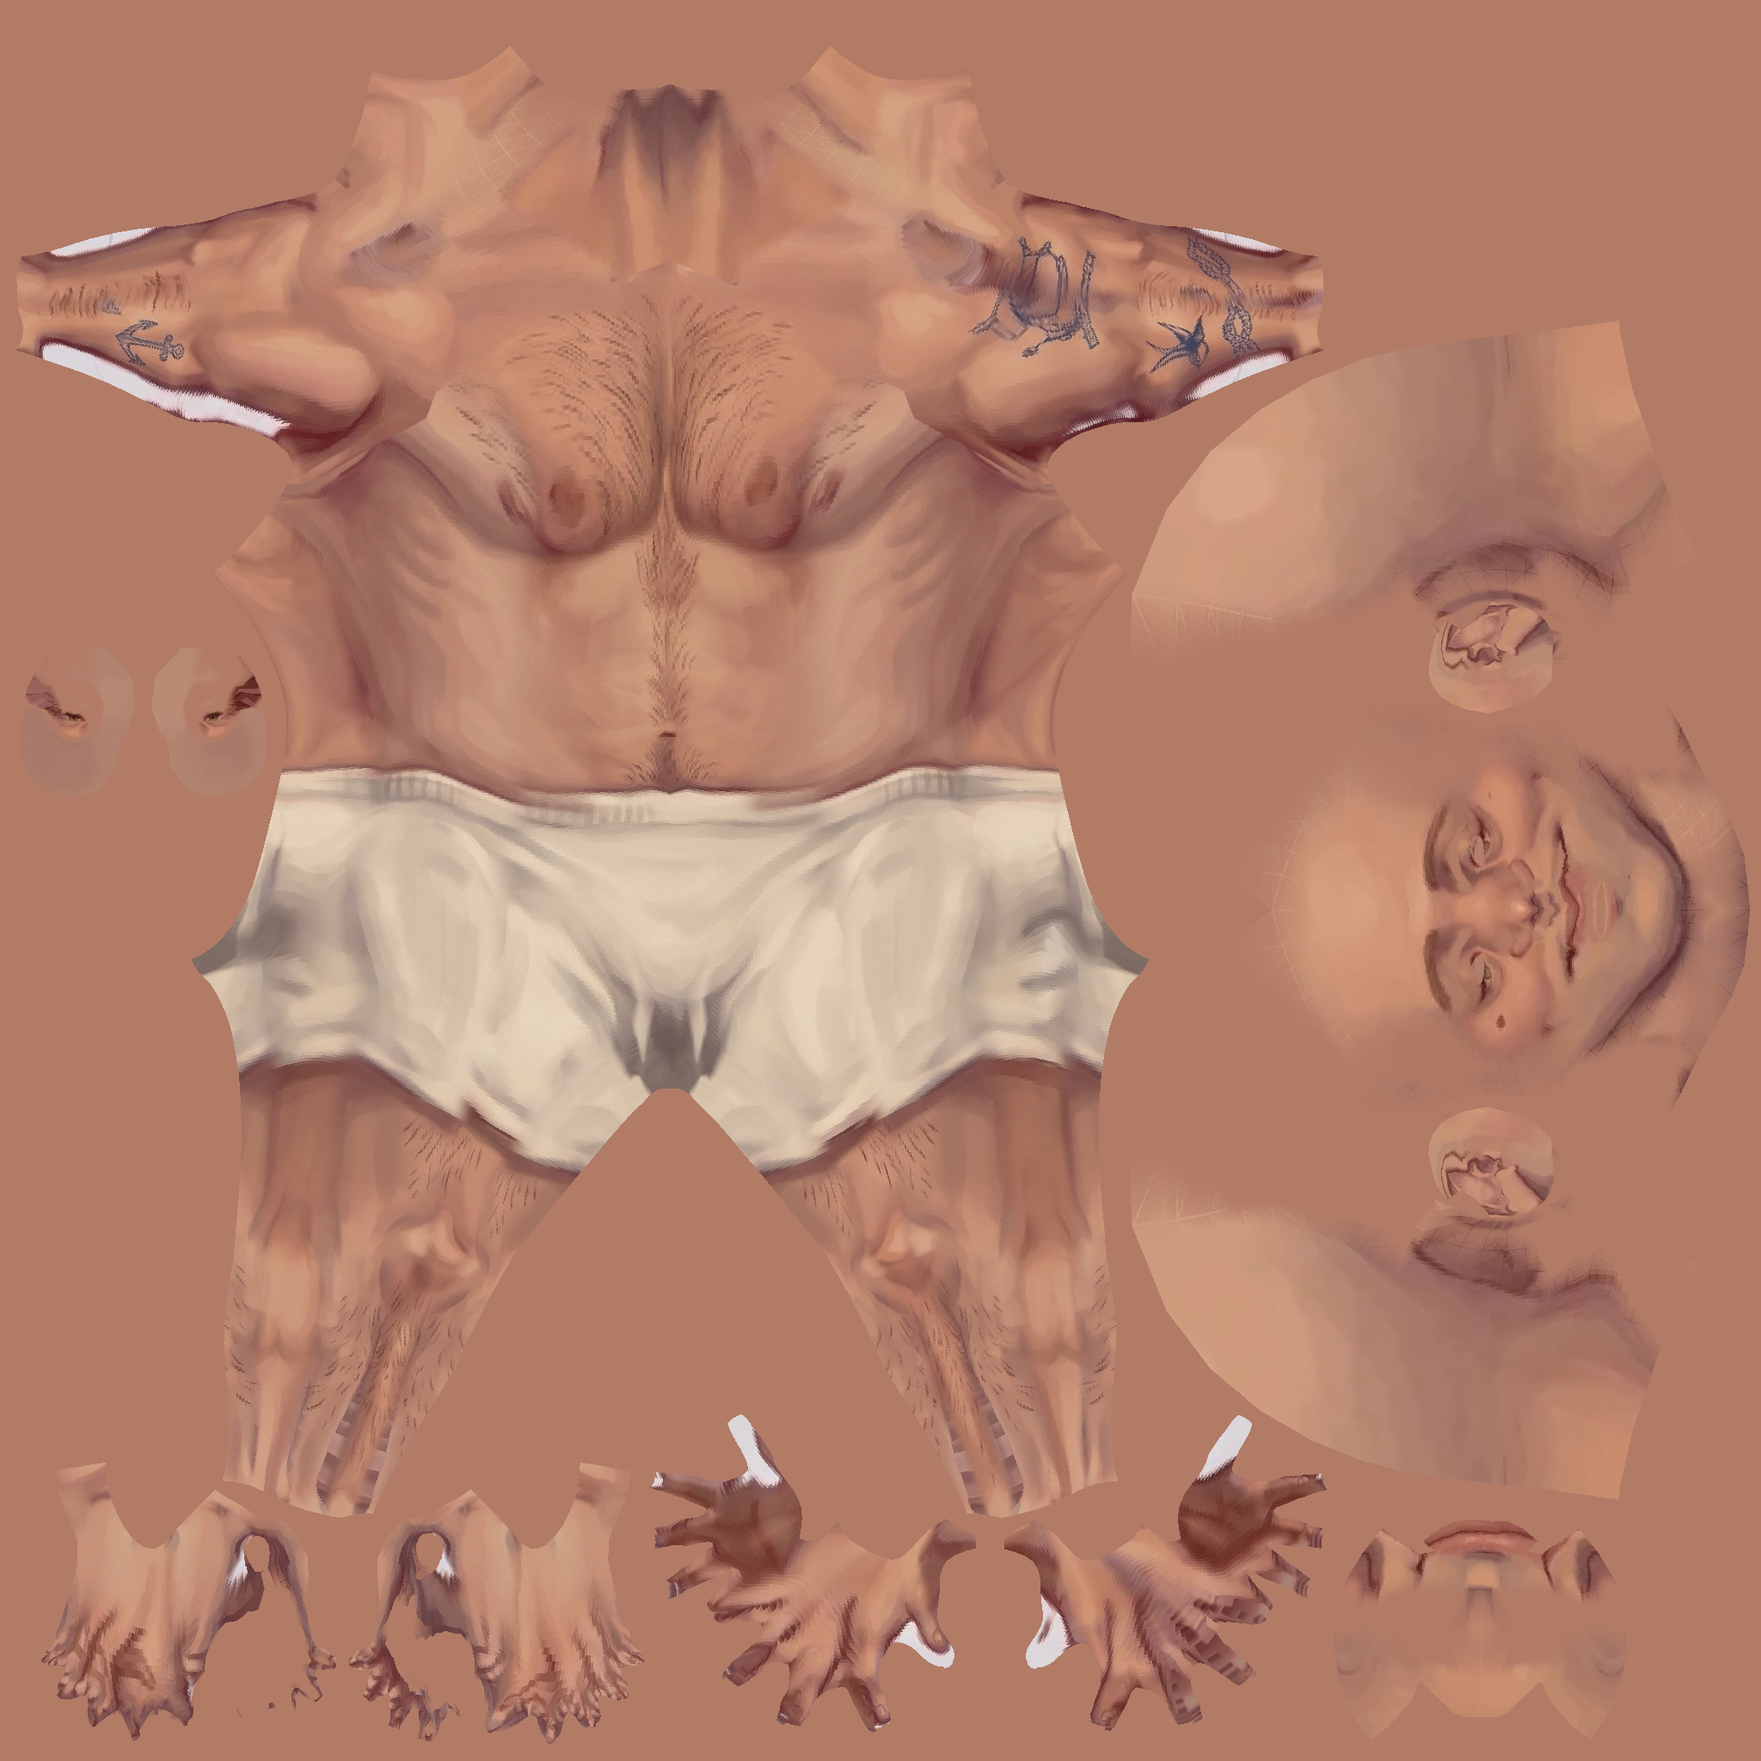
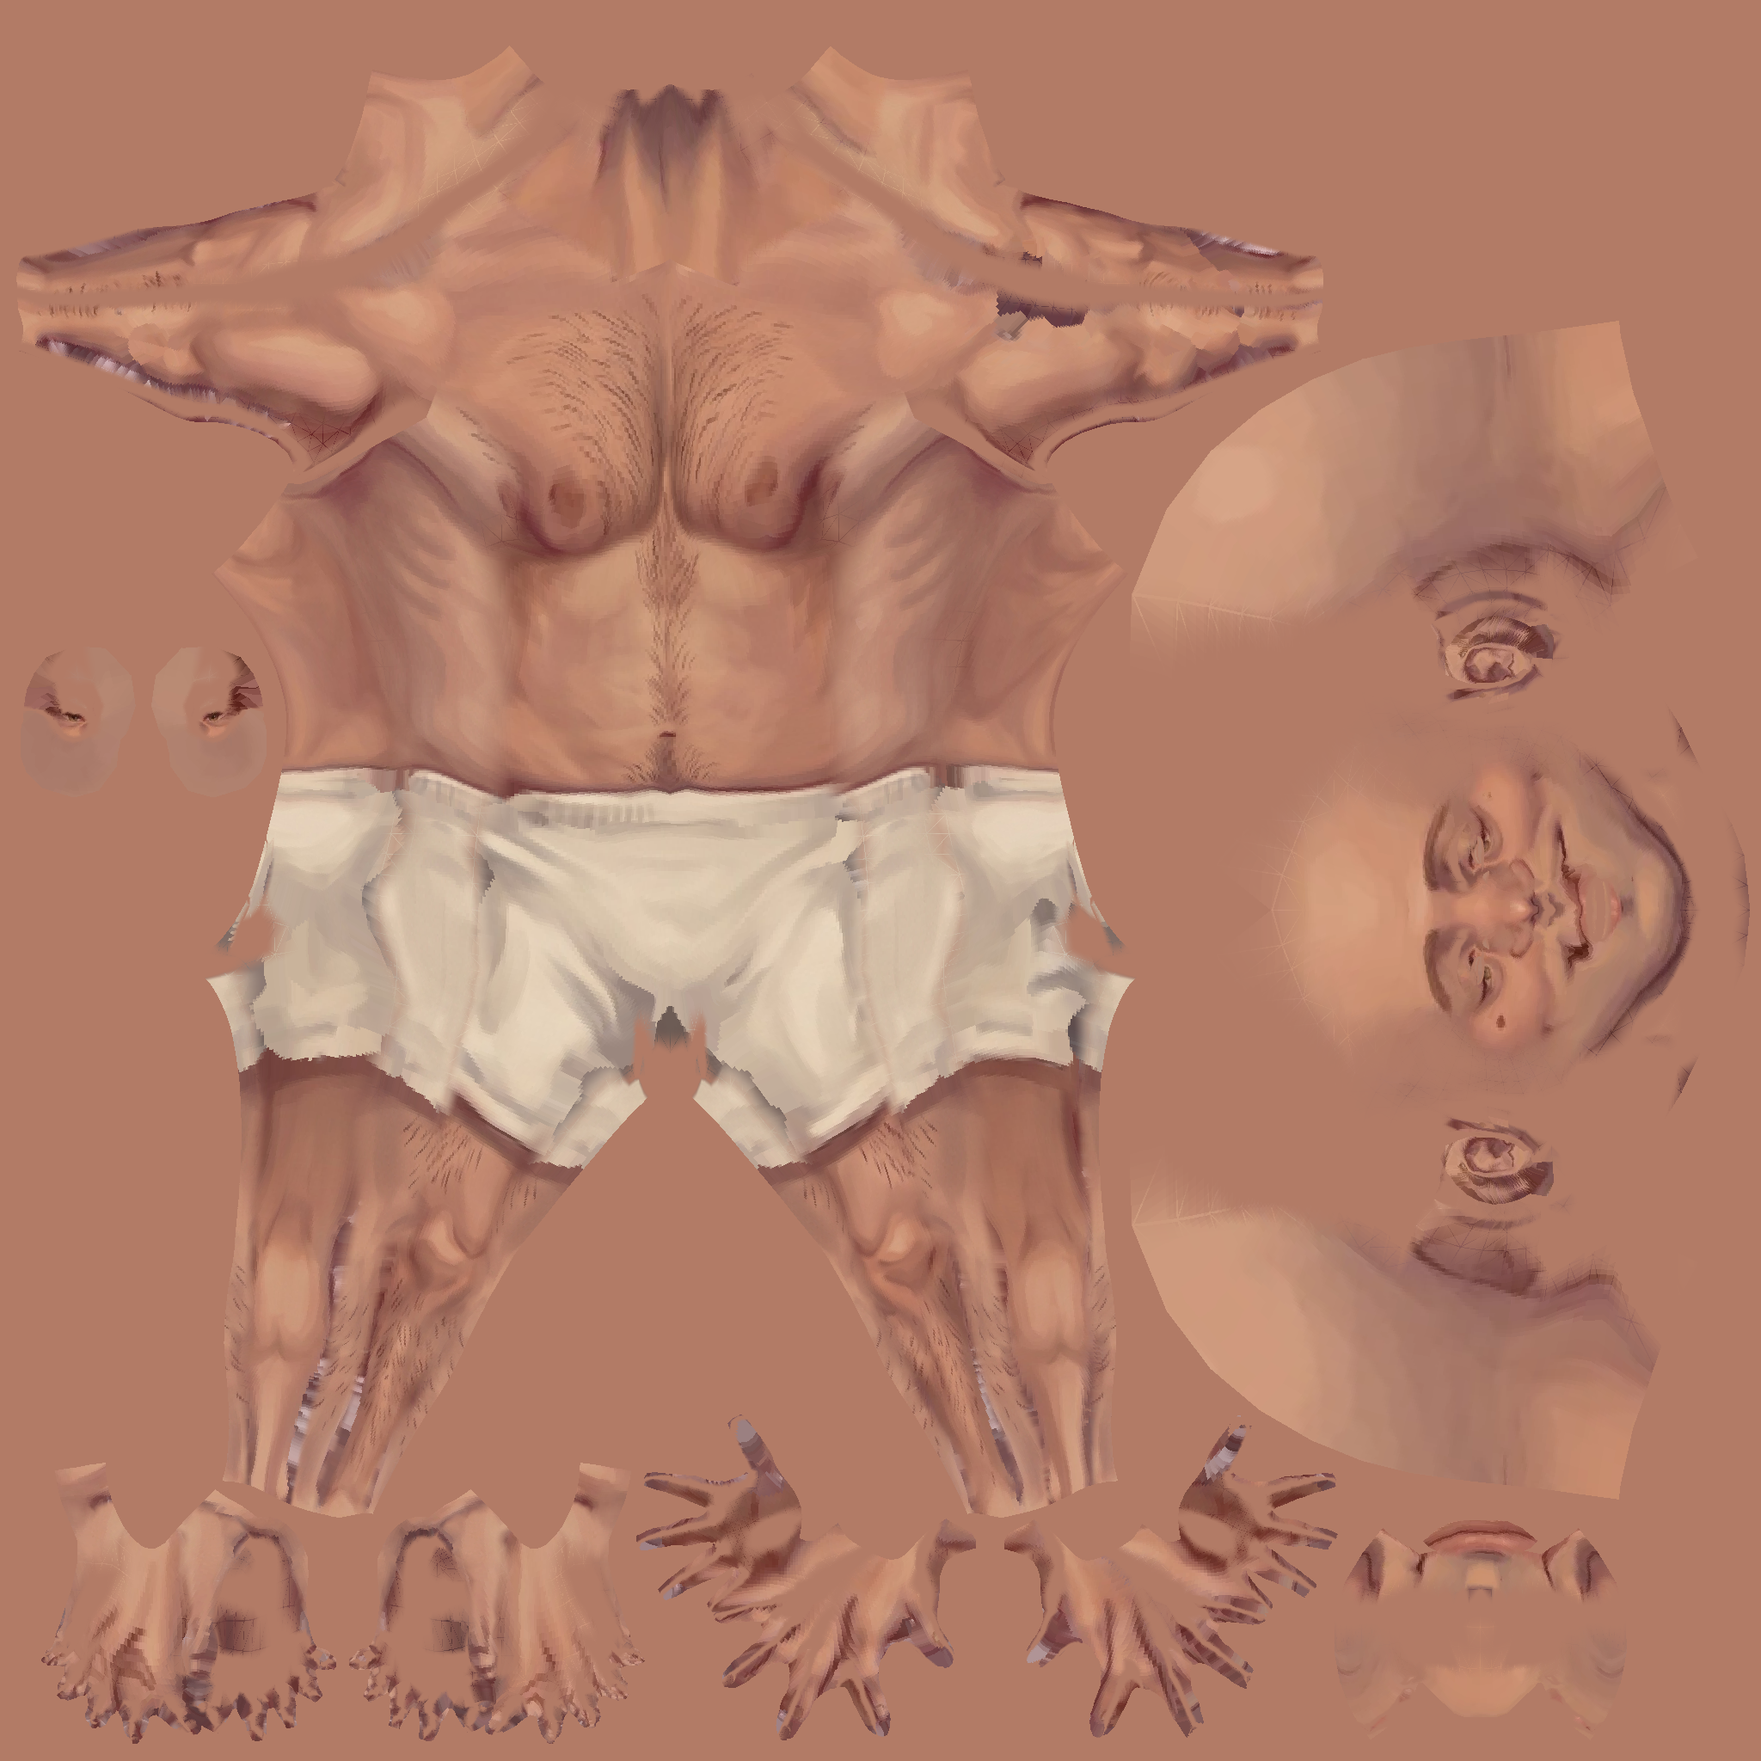
Gulp: figed: paint without tattoos, ears box to box, no paper or smears in the paint, F5/F6 keys; the brother's eyes tilted, mouth raised and widened
Claude-Session: https://claude.ai/code/session_018hhQTWAB4pnnkWVR2X6n6A

diff --git a/tools/figed/paint_project.py b/tools/figed/paint_project.py
@@ -24,6 +24,7 @@ import figed_fit  # noqa: E402
 
 argv = sys.argv[sys.argv.index("--") + 1:]
 SIZE = 2048
+INK = 0.17                                                    # red minus blue under this, and dark: tattoo ink
 PULL = 10.0                                                   # body views: pixels a sample may be pulled in from outside
 SIDE_FROM, SIDE_TO = 0.12, 0.6                                # how squarely skin must face a view: none .. full paint
 base = figed.Base()
@@ -50,6 +51,25 @@ mid = head[np.abs(P[head][:, 0] - np.median(P[head][:, 0])) < 0.012]
 nose = P[mid[np.argmin(P[mid][:, 1])]]
 crown = P[head[np.argmax(P[head][:, 2])]]
 high = crown[2] - chin[2]
+
+def spread(img, known, steps):
+    """Colours carried outward from where they are known, a pixel a step: (image, where it now has colour)."""
+    img, known = img.copy(), known.copy()
+    for _ in range(steps):
+        if known.all():
+            break
+        total = np.zeros_like(img)
+        count = np.zeros(known.shape)
+        for dy, dx in ((1, 0), (-1, 0), (0, 1), (0, -1)):
+            src = (slice(max(0, -dy), img.shape[0] - max(0, dy)), slice(max(0, -dx), img.shape[1] - max(0, dx)))
+            dst = (slice(max(0, dy), img.shape[0] - max(0, -dy)), slice(max(0, dx), img.shape[1] - max(0, -dx)))
+            total[dst] += img[src] * known[src][:, :, None]
+            count[dst] += known[src]
+        new = (~known) & (count > 0)
+        img[new] = total[new] / count[new][:, None]
+        known |= new
+    return img, known
+
 
 def feather(mask, n=6):
     """A cut-out as 0..1, falling off over n pixels inside its edge: paint fades out towards the outline."""
@@ -97,7 +117,14 @@ by_name = {v[8]: v for v in views}
 FRONT, BACK, SIDE = by_name["face"], by_name["face_back"], by_name["face_side_r"]
 ear_of = np.zeros(len(P), dtype=int)                          # 1 = an ear on his left (+x), 2 = on his right
 for side, (ear, _root, flap) in fig._ear_masks().items():
-    ear_of[ear] = 1 if side == "l" else 2
+    ear_of[flap] = 1 if side == "l" else 2
+# The ear is painted BOX TO BOX: the model's ear, seen from the side, onto the ear as drawn in the side view (the
+# sheet's "ear": [x0, y0, x1, y1]). Placed by the head's position the two ears never coincide, and the paint missed.
+ear_box = None
+if "ear" in sheet:
+    flap_r = fig._ear_masks()["r"][2]
+    eu, ev = P[flap_r].dot(SIDE[1]), P[flap_r].dot(SIDE[2])
+    ear_box = (eu.min(), eu.max(), ev.min(), ev.max(), [c * k for c in sheet["ear"]])
 print("skin colour", skin.round(3), "views", len(views))
 
 # --body <fit job>: the body below the chin from the job's "front" and "back" views of the body sheet, the model
@@ -129,11 +156,25 @@ if "--body" in argv:
             n = int((bx[3] - bx[1]) // want)
         origin = (bx[0] // n, bx[1] // n)
         m = figed_fit.shrink(v.mask, 2)
-        softb = m
-        rows = m.any(axis=1)
-        lo = np.where(rows, m.argmax(axis=1), 0)
-        hi = np.where(rows, m.shape[1] - 1 - m[:, ::-1].argmax(axis=1), -1)
-        body_views.append((v, pic, n, origin, softb, lo, hi))
+        y0, x0 = origin[1] * n, origin[0] * n
+        big = np.repeat(np.repeat(m, n, axis=0), n, axis=1)[:pic.shape[0] - y0, :pic.shape[1] - x0]
+        sub = pic[y0:y0 + big.shape[0], x0:x0 + big.shape[1]]
+        # NO TATTOOS in the skin (the user, 2026-11-20: "he should have no tattoos- those should be positionable
+        # separate textures"): the ink (dark and grey-blue, where skin and hair are red-brown) is painted out of the
+        # drawing with the skin round it
+        ink = big & ((sub[:, :, 0] - sub[:, :, 2]) < INK) & (sub.max(axis=2) < 0.70)
+        cloth = figed_fit.grow(big & (sub.min(axis=2) > 0.7) & ((sub[:, :, 0] - sub[:, :, 2]) < 0.2), 14)       # the drawers (pale cloth) and their shading:
+        ink = figed_fit.grow(ink & ~cloth, 7) & big & ~cloth            # grey too, but not ink; left as drawn
+        clean, _k = spread(sub, ~ink, 80)
+        pic = pic.copy()
+        pic[y0:y0 + big.shape[0], x0:x0 + big.shape[1]] = clean
+        # the drawing at the mask's own size, its colours carried PULL pixels out past the figure's edge: what skin
+        # just outside the outline takes (and never the white paper between an arm and the body)
+        gy, gx = np.mgrid[0:m.shape[0], 0:m.shape[1]]
+        small = pic[np.clip(gy * n + y0 + n // 2, 0, pic.shape[0] - 1), np.clip(gx * n + x0 + n // 2, 0, pic.shape[1] - 1)]
+        fill, known = spread(small, m, int(PULL))
+        print("view", v.spec["name"], "ink pixels painted out", int(ink.sum()))
+        body_views.append((v, pic, n, origin, m, fill, known))
     body_views.sort(key=lambda b: ORDER[b[0].spec["name"]])
     print("body views", [b[0].spec["name"] for b in body_views])
     arm_bones = [i for i, b in enumerate(base.bones) if b.split("_")[0] in (
@@ -184,20 +225,24 @@ for group, vi, ti in base.faces:
             # has the arm hanging over the flank). Arms keep front and back only.
             sw = np.zeros(len(fr))
             if len(body_views) > 2 and armw[tri].mean() < 0.5:
-                q = np.clip((np.abs(nb[:, 0]) - 0.45) / 0.4, 0, 1)
+                q = np.clip((np.abs(nb[:, 0]) - 0.75) / 0.2, 0, 1)   # squarely side on only (a second nipple came
+                # from the side view's chest when this began at 0.45)
                 sw = q * q * (3 - 2 * q)
-            for (v, pic, n, origin, rows, lo, hi), share in zip(body_views, (fr * (1 - sw), (1 - fr) * (1 - sw), sw)):
+            # skin that faces neither view squarely (the outer arm, the top of the shoulder, soles, undersides)
+            # fades to the plain skin tone: front and back disagree there and smeared
+            g = np.clip((np.abs(nb[:, 1]) - 0.15) / 0.4, 0, 1)
+            g = np.maximum(g * g * (3 - 2 * g), sw)
+            for (v, pic, n, origin, m, fill, known), share in zip(body_views, (fr * (1 - sw), (1 - fr) * (1 - sw), sw)):
                 px_, py_ = v.project(posb.T)
                 iy0, ix0 = np.round(py_).astype(int), np.round(px_).astype(int)
-                iy = np.clip(iy0, 0, rows.shape[0] - 1)
-                has = hi[iy] >= lo[iy]
-                ix = np.clip(ix0, lo[iy], np.maximum(hi[iy], lo[iy]))     # pulled in to the figure on its row ...
-                pulled = np.abs(ix - ix0)
-                on = has * (iy0 == iy) * np.clip(1.5 - pulled / PULL, 0, 1)   # ... a little way only (no long streaks)
+                iy = np.clip(iy0, 0, m.shape[0] - 1)
+                ix = np.clip(ix0, 0, m.shape[1] - 1)
+                inb = (iy0 == iy) & (ix0 == ix)
                 fx = np.clip((ix + origin[0]) * n + n // 2, 0, pic.shape[1] - 1)
                 fy = np.clip((iy + origin[1]) * n + n // 2, 0, pic.shape[0] - 1)
-                wgt = share * on * below
-                texb[ys, xs] += pic[fy, fx] * wgt[:, None]
+                col = np.where(m[iy, ix][:, None], pic[fy, fx], fill[iy, ix])
+                wgt = share * (known[iy, ix] & inb) * below * g
+                texb[ys, xs] += col * wgt[:, None]
                 wb[ys, xs] += wgt
         if P[tri][:, 2].max() < low:
             continue
@@ -206,7 +251,15 @@ for group, vi, ti in base.faces:
         nrm /= np.maximum(np.linalg.norm(nrm, axis=1, keepdims=True), 1e-9)
         fade = np.clip((pos[:, 2] - low) / 0.05, 0, 1)        # the paint fades out down the neck
         which = ear_of[tri]
-        if which.min() > 0:                                   # an ear: from the side view (his left ear mirrored)
+        if which.min() > 0 and ear_box:                       # an ear: box to box from the side view
+            q = pos * np.array([-1.0, 1, 1]) if which[0] == 1 else pos
+            u0, u1, v0, v1, (bx0, by0, bx1, by1) = ear_box
+            ix = np.round(bx0 + (q.dot(SIDE[1]) - u0) / (u1 - u0) * (bx1 - bx0)).astype(int)
+            iy = np.round(by1 - (q.dot(SIDE[2]) - v0) / (v1 - v0) * (by1 - by0)).astype(int)
+            tex[ys, xs] += art[np.clip(iy, 0, art.shape[0] - 1), np.clip(ix, 0, art.shape[1] - 1)]
+            wsum[ys, xs] += 1.0
+            continue
+        if which.min() > 0:                                   # (no ear box given: by the head's position)
             if which[0] == 1:
                 pos = pos * np.array([-1.0, 1, 1])
             use = [(SIDE, np.ones(len(pos)))]
@@ -240,6 +293,7 @@ shown = np.clip(wb, 0, 1)[:, :, None]
 under = under * shown + skin * (1 - shown)
 out = np.where(wsum[:, :, None] > 1e-6, tex / np.maximum(wsum, 1e-6)[:, :, None], skin) * seen + under * (1 - seen)
 out[~cover] = skin
+out[:8, :8] = skin                                            # a corner of plain skin: the head under a cut-off ear
 img = bpy.data.images.new("skin", SIZE, SIZE, alpha=False)
 rgba = np.ones((SIZE, SIZE, 4), dtype=np.float32)
 rgba[:, :, :3] = out                                          # row 0 is v = 0: Blender's own order

diff --git a/tools/figed/session_keys.py b/tools/figed/session_keys.py
@@ -1,0 +1,69 @@
+"""Two keys for a figed sculpt or paint window (the user has no numpad and should not need Blender's menus):
+
+    F5  the texture on / off (off = plain grey with studio light, to judge the forms)
+    F6  Sculpt Mode <-> Texture Paint (Sculpt Mode starts on the Grab brush, mirrored)
+
+Run inside Blender: exec(open(".../session_keys.py").read()). sculpt_session.py runs it for every window.
+"""
+import bpy
+
+
+def _view():
+    for area in bpy.context.screen.areas:
+        if area.type == "VIEW_3D":
+            return area, next(r for r in area.regions if r.type == "WINDOW")
+    return None, None
+
+
+class FIGED_OT_texture(bpy.types.Operator):
+    bl_idname = "figed.texture"
+    bl_label = "figed: texture on / off"
+
+    def execute(self, context):
+        area, _region = _view()
+        sh = area.spaces[0].shading
+        sh.type = "SOLID"
+        if sh.color_type == "TEXTURE":
+            sh.color_type, sh.light = "MATERIAL", "STUDIO"
+        else:
+            sh.color_type, sh.light = "TEXTURE", "FLAT"
+        return {"FINISHED"}
+
+
+class FIGED_OT_mode(bpy.types.Operator):
+    bl_idname = "figed.mode"
+    bl_label = "figed: sculpt / paint"
+
+    def execute(self, context):
+        if context.mode == "SCULPT":
+            if "figed_skin" in bpy.data.images:
+                bpy.ops.object.mode_set(mode="TEXTURE_PAINT")
+            return {"FINISHED"}
+        bpy.ops.object.mode_set(mode="SCULPT")
+        context.scene.tool_settings.sculpt.use_symmetry_x = True
+        area, region = _view()
+        try:
+            with context.temp_override(area=area, region=region):
+                bpy.ops.brush.asset_activate(
+                    asset_library_type="ESSENTIALS",
+                    relative_asset_identifier="brushes/essentials_brushes-mesh_sculpt.blend/Brush/Grab")
+            context.scene.tool_settings.unified_paint_settings.size = 110
+        except Exception as e:
+            print("grab brush:", e)
+        return {"FINISHED"}
+
+
+for cls in (FIGED_OT_texture, FIGED_OT_mode):
+    try:
+        bpy.utils.register_class(cls)
+    except ValueError:
+        pass
+kc = bpy.context.window_manager.keyconfigs.addon
+if kc:
+    km = kc.keymaps.new(name="3D View", space_type="VIEW_3D")
+    have = {k.idname for k in km.keymap_items}
+    if "figed.texture" not in have:
+        km.keymap_items.new("figed.texture", "F5", "PRESS")
+    if "figed.mode" not in have:
+        km.keymap_items.new("figed.mode", "F6", "PRESS")
+print("figed keys: F5 texture, F6 sculpt/paint")

diff --git a/tools/figed/figed_blender.py b/tools/figed/figed_blender.py
@@ -142,6 +142,14 @@ def cut_ears(fig, obj, remap, P):
                 for lf, lg in zip(f.loops, g.loops):
                     lg[uv].uv = lf[uv].uv
             count += 1
+        # the head where the ear stood keeps the ear's faces, flattened: they must not show the ear's paint, so
+        # their UVs go to the corner of plain skin that paint_project.py leaves
+        if uv:
+            under = {remap[int(i)] for i in fig._ear_masks()[side][0] if int(i) in remap}
+            for f in bm.faces:
+                if all(v.index in under for v in f.verts) and not any(v in copy.values() for v in f.verts):
+                    for lp in f.loops:
+                        lp[uv].uv = (0.002, 0.002)
         # the cut edge of the piece carried on INTO the head as a skirt, so no open rim shows behind the ear and
         # the ear reads as joined to the head
         own = set(copy.values())

diff --git a/tools/figed/sculpt_session.py b/tools/figed/sculpt_session.py
@@ -202,6 +202,11 @@ else:                                                  # in a window, on a file 
             print("undo push:", e)
         return None
 
+    def keys():                                        # F5 texture on/off, F6 sculpt <-> paint
+        exec(open(os.path.join(os.path.dirname(os.path.abspath(__file__)), "session_keys.py")).read(), {})
+        return None
+
+    bpy.app.timers.register(keys, first_interval=1.5)
     bpy.app.timers.register(setup, first_interval=0.8)
     if not painting:
         bpy.app.timers.register(grab, first_interval=2.5)

diff --git a/tools/figed/README.md b/tools/figed/README.md
@@ -601,3 +601,20 @@ up; a ready-made skin tinted; hand painting): "do the texture projection as a fi
     from outside its outline. No band of plain skin and no long streaks down the side.
   - Left: a smudge on the outer upper arm (front and back disagree there), eyeballs blank, the pale patch behind
     each ear, dark lines under the jaw from the sheet's outline, the drawings' light still in the paint.
+- Sixth projection, from the user's notes on the paint window (2026-11-20): "the eyes dont have the downards tilt"
+  (`eye_outer_corner_up` -2.5, `eye_inner_corner_up` 0.6); "the ear projection is very messed up" (the ear is now
+  painted BOX TO BOX, the model's ear onto the sheet's `"ear"` box in the side view, and the flattened head under a
+  cut-off ear has its UVs sent to a corner of plain skin, so it no longer shows ear paint); "the under side seems
+  to have gotten messed up" (white: samples had been pulled in along a row and landed on the paper between arm and
+  body; now each body view's colours are carried `PULL` pixels out from the figure's true edge, `spread`); "double
+  nipples and shoulder smearing- and he should have no tattoos- those should be positionable separate textures"
+  (the side view is used only squarely side on, 0.75..0.95; skin facing neither front nor back fades to skin tone;
+  TATTOO INK IS PAINTED OUT of the body views: dark, red minus blue under `INK` 0.17, grown 7 px, filled from the
+  skin round it, the drawers' pale cloth and its shading left alone); "his lip line is misaligned" and "his
+  modeled mouth isnt wide enough" (`mouth-trans-up` 0.9 -> 1.6, `mouth-scale-horiz` 0.7 -> 1.5).
+  Owed from this: the tattoos as separate movable pictures (cut from the sheet before the ink is painted out); the
+  drawers as a garment ("his wastband isnt a clean line anymore": front, back and side views disagree where they
+  meet, and the ink pass smudges the cloth's shading a little); eyeballs.
+- `session_keys.py`: F5 texture on/off, F6 Sculpt <-> Texture Paint, in every figed window (the user: "is there a
+  way for me to toggle on and off the texture? and to get to sculpt mode?"). A paint file has `figed_rest`, so
+  sculpting in it is read by `-- read` as usual.
